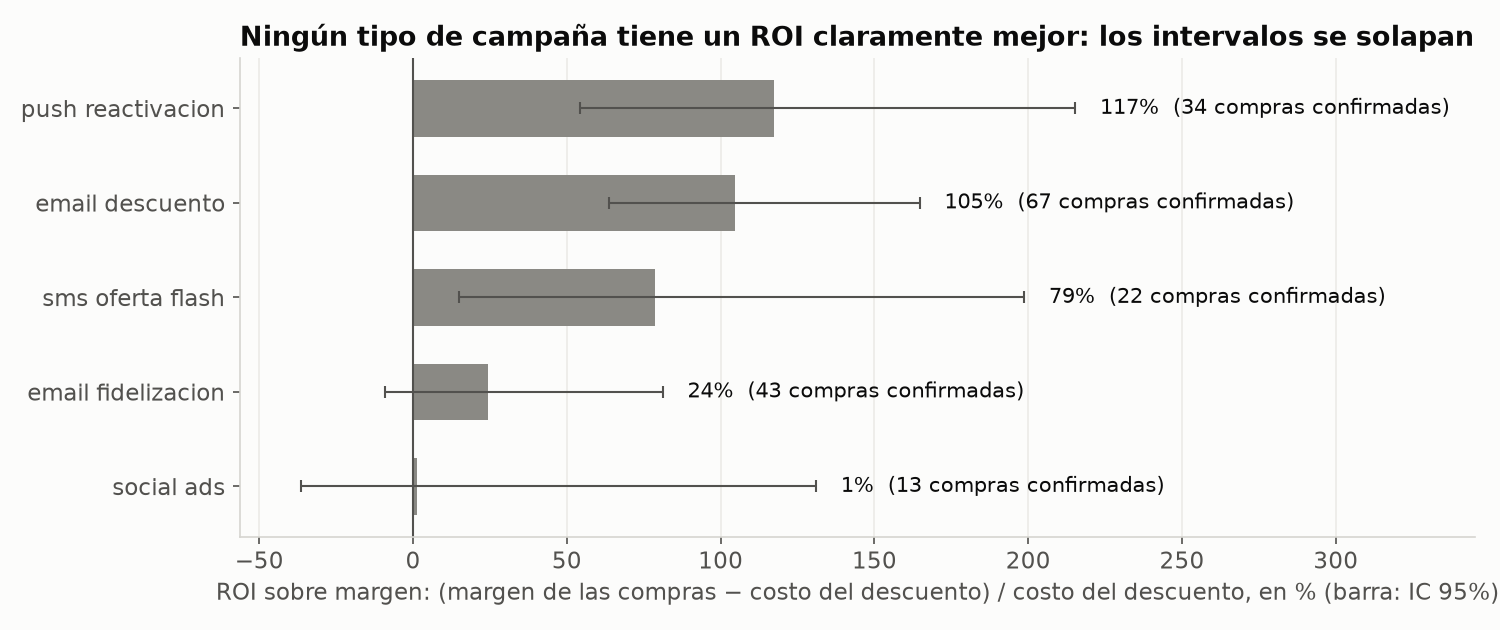
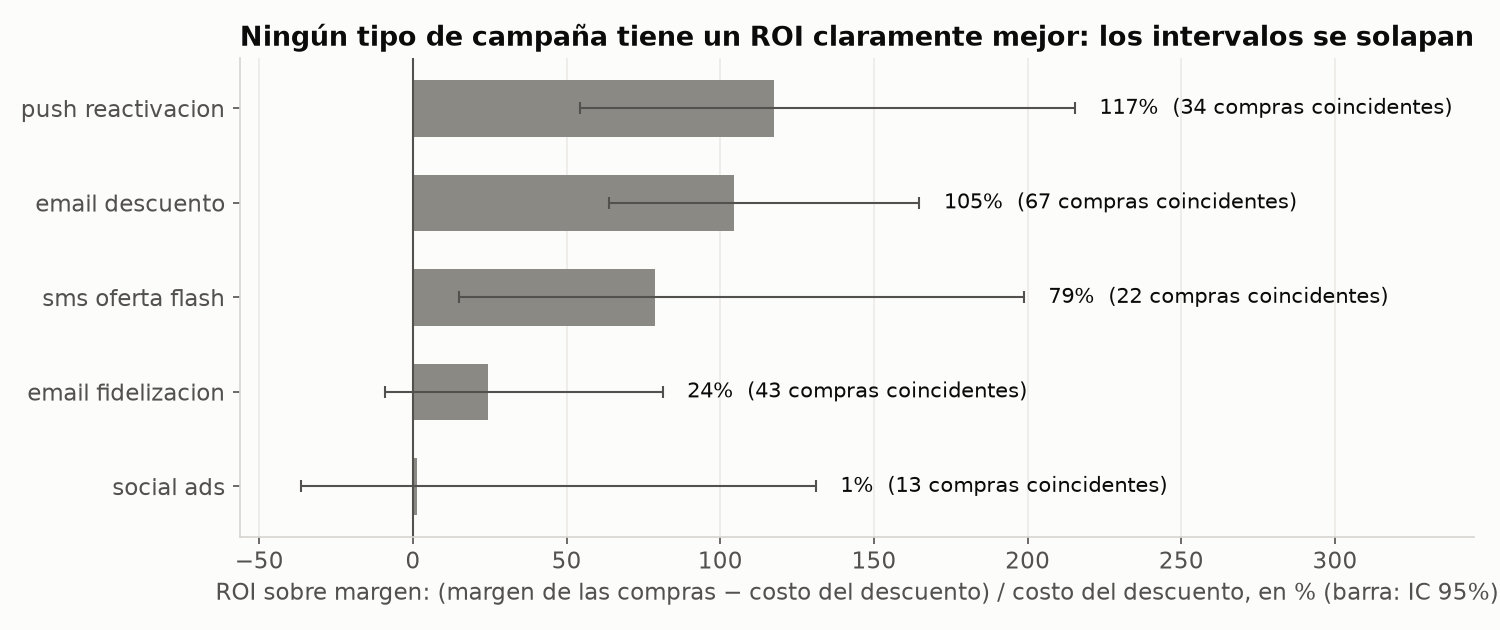
A4: las conversiones 'confirmadas' son coincidencias; ROI por tipo como anexo
- Las 179 compras tras una conversión ocurren al mismo ritmo que en cualquier envío (22,5% contra 20–21%): pasan a llamarse coincidentes.
- Los Inactivo que nunca compraron aparecen convertidos igual que los demás: la marca no mide compras. La hipótesis 'sensibles al precio' se rebaja a 'poco fieles'.
- ROI total como cálculo formal del enunciado; por tipo, en anexo.
- Respuesta explícita a si hay que recortar el marketing: no se puede saber sin grupo de control.

diff --git a/DECISIONES.md b/DECISIONES.md
@@ -64,6 +64,8 @@ En las métricas de calidad, la consistencia de ventas baja a 50% solo por esta 
 
 Esto hay que mencionarlo como limitación en la presentación.
 
+**Lo que vimos después (A4.3):** esas 179 compras son sobre todo **coincidencias**. El 22,5% de las conversiones tiene una compra en 30 días, y el 20–21% de cualquier envío también la tiene, con o sin conversión marcada. Desde A4 las llamamos "compras coincidentes".
+
 #### A1.3 Ventas por debajo del costo
 
 **Qué pasa:** en 711 ventas, el cliente pagó menos de lo que le costó el producto a la empresa.
@@ -347,6 +349,8 @@ Cifras de `notebooks/04_marketing.ipynb`.
 
 **Por qué:** si las campañas funcionan, debería haber más compras después del envío que antes, y más con más descuento. No pasa ninguna de las dos cosas: 20,8% compra después y 21,4% antes; el descuento no cambia la compra real (+0,1 puntos por cada 10; IC 95%: −0,8 a 1,1). Y la conversión marcada cae a la mitad en 2024, mientras las compras tras una campaña se mantienen.
 
+**Las 179 compras "confirmadas" de A1.2 son coincidencias:** el 22,5% de las conversiones tiene una compra en 30 días, casi lo mismo que cualquier envío (20–21%). Además, los clientes "Inactivo" que nunca compraron nada aparecen "convertidos" igual que los que sí compraron (5,6% contra 5,5%). Desde aquí las llamamos "compras coincidentes".
+
 **Consecuencia:** con estos datos no se puede demostrar que las campañas generen ventas. O la marca de conversión registra algo que no está en el archivo de transacciones, o no es fiable. Lo presentamos como limitación, no como prueba de que el marketing no sirve.
 
 **A confirmar con el profesor:** ¿la conversión puede venir de compras que no están en `transacciones.csv`? ¿Cuál de las dos lecturas usamos en la presentación?
@@ -357,14 +361,16 @@ Cifras de `notebooks/04_marketing.ipynb`.
 
 **Qué hicimos:** para cada envío marcamos si el cliente había tenido antes una queja, una queja sin resolver o una devolución, y medimos su efecto en la conversión con una regresión. Primero controlando segmento y descuento; después agregando cuántas compras llevaba el cliente y la fecha.
 
-**Por qué:** la devolución previa parece bajar la conversión (odds ratio 0,71), pero quien devolvió es quien más compra, y la conversión cae con el tiempo. Al controlarlo, el efecto desaparece (odds ratio 0,85; p = 0,15). Ninguna de las tres hipótesis se sostiene. Lo que sí distingue a los Inactivo es que compraron una vez como mucho y que solo convierten con descuentos grandes. Por eso proponemos otra hipótesis: son clientes poco fieles y sensibles al precio.
+**Por qué:** la devolución previa parece bajar la conversión (odds ratio 0,71), pero quien devolvió es quien más compra, y la conversión cae con el tiempo. Al controlarlo, el efecto desaparece (odds ratio 0,85; p = 0,15). Ninguna de las tres hipótesis se sostiene. Lo que sí distingue a los Inactivo es que compraron una vez como mucho. Proponemos una hipótesis débil: son clientes poco fieles. No decimos "sensibles al precio", aunque la marca solo se active con descuentos grandes. Los que nunca compraron nada también aparecen "convertidos", así que la marca no mide compras y no permite sacar conclusiones sobre cómo reaccionan al precio.
+
+**Sobre el segmento:** que Premium convierta 2,5 veces más que Inactivo describe a quién le funciona la marca. No dice que el segmento sea la causa, porque el segmento es una franja de compras (A1.4).
 
 #### A4.5 Cómo calculamos el ROI
 
 **Qué pasa:** el enunciado pide el ROI con el monto convertido contra el costo implícito del descuento, pero no da la fórmula.
 
 **Qué hicimos:**
-- **Monto convertido:** solo compras confirmadas (A1.2). **Costo del descuento:** descuento ofrecido × monto de esa compra.
+- **Monto convertido:** solo compras coincidentes (A1.2 y A4.3). **Costo del descuento:** descuento ofrecido × monto de esa compra.
 - **ROI sobre ventas** = (monto − costo) / costo. Es el que pide el enunciado: 5,80 en total.
 - **ROI sobre margen** = (margen bruto de esas compras − costo) / costo: 0,59 en total, con IC *bootstrap* por tipo.
 - **ROI incremental:** el margen de las conversiones que no habría sin descuento (frente al 0%), contra el descuento que se regala a todas las conversiones. Valoramos cada conversión con el ticket medio (355) y el margen (23,4%) de las compras confirmadas. Resultado: −31%.
@@ -373,6 +379,8 @@ Cifras de `notebooks/04_marketing.ipynb`.
 - El ROI sobre ventas sale casi igual a (1 − d) / d, con d = descuento medio. Mide el descuento, no la campaña. Por eso agregamos el de margen.
 - Ninguno de los dos tiene en cuenta que esas compras quizá habrían ocurrido igual. El incremental sí, y es el que sirve para decidir: aunque aceptemos la marca de conversión, solo el descuento de 5% se paga solo.
 - Usamos el descuento ofrecido y no el de la transacción porque es lo que pide el enunciado, y porque no coinciden (correlación de 0,04).
+
+**Cómo lo presentamos:** el ROI sobre ventas **total** (5,80) es la cifra que pide el enunciado, presentada como cálculo formal: se apoya en compras coincidentes. La tabla **por tipo** va como anexo, porque hay tipos con solo 13 compras y los intervalos se solapan. Para decidir usamos el ROI incremental.
 
 **A confirmar con el profesor:** las tres versiones del ROI y cuál presentar como principal.
 

diff --git a/FEEDBACK_PROFESOR.md b/FEEDBACK_PROFESOR.md
@@ -26,7 +26,7 @@
 
 **Qué le vamos a pedir que confirme (A4):** detalle en `DECISIONES.md`, A4:
 - **Descuento (A4.2):** el descuento se repartió como en un sorteo (no depende del segmento, del tipo, del canal ni del año). ¿Podemos leer su efecto como causal?
-- **Conversión contra compras reales (A4.3):** según la marca, el descuento dobla la conversión; según las transacciones, ni las campañas ni el descuento cambian las compras. ¿La conversión puede venir de compras que no están en `transacciones.csv`? ¿Cuál de las dos lecturas presentamos?
+- **Conversión contra compras reales (A4.3):** según la marca, el descuento dobla la conversión; según las transacciones, ni las campañas ni el descuento cambian las compras. ¿La conversión puede venir de compras que no están en `transacciones.csv`? ¿Cuál de las dos lecturas presentamos? (Las 179 compras "confirmadas" resultan ser coincidencias: cualquier envío tiene una compra en 30 días el 21% de las veces.)
 - **ROI (A4.5):** damos tres versiones (sobre ventas, la del enunciado; sobre margen; e incremental). ¿Cuál presentamos como principal?
 
 **Qué respondió:**
